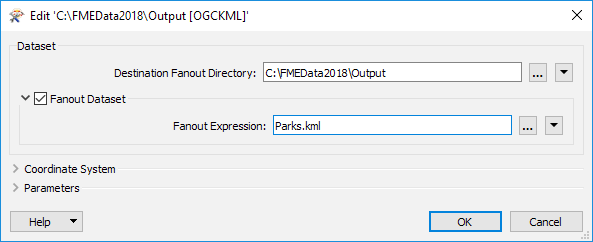
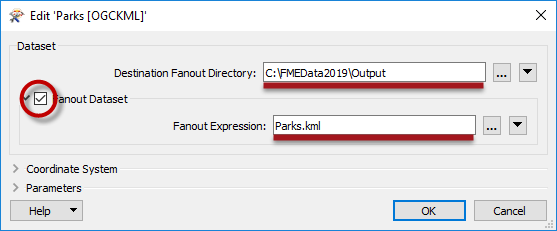
2019 Section 3.05 updates

diff --git a/DesktopAdvanced3AdvancedR+W/3.05.DatasetFanout.md b/DesktopAdvanced3AdvancedR+W/3.05.DatasetFanout.md
@@ -13,16 +13,17 @@ A Dataset Fanout is defined in the Navigator window in Workbench, just below the
 
 ![](./Images/Img3.019.DatasetFanoutNavSetting.png)
 
-Double-clicking the Fanout Dataset parameter opens a dialog in which to define the folder to write to and the Fanout Expression to use. It defaults to the original file name:
+Double-clicking the Fanout Dataset parameter opens a dialog in which a Fanout checkbox is set. Here you can define the folder to write to and the Fanout Expression to use. The default values set the Fanout Directory from the destination dataset path, and the Fanout Expression from the destination dataset file name:
 
 ![](./Images/Img3.020.DatasetFanoutDialog.png)
 
-To achieve a fanout (a different file per attribute value) edit the Fanout Expression to include an attribute name, such as this:
+To achieve a fanout (a different file per attribute value) select an attribute to include in the file name, such as this:
 
-![](./Images/Img3.064.DatasetFanoutExpression.png)
+![](./Images/Img3.021.DatasetFanoutDialogSet.png)
 
-In this case, each different neighborhood produces a separate file of park features.
+In this case, each different neighborhood produces a separate file of park features. 
 
+It's important to note that the Text Editor dialog can be used to add different components to both the Fanout Directory and the Fanout Expression, including user parameters, functions, and datetimes. Generally, even if the requirement is to use an attribute to define a sub-folder, it would go into the Fanout Expression, rather than the Fanout Directory. 
 
 ---
 
